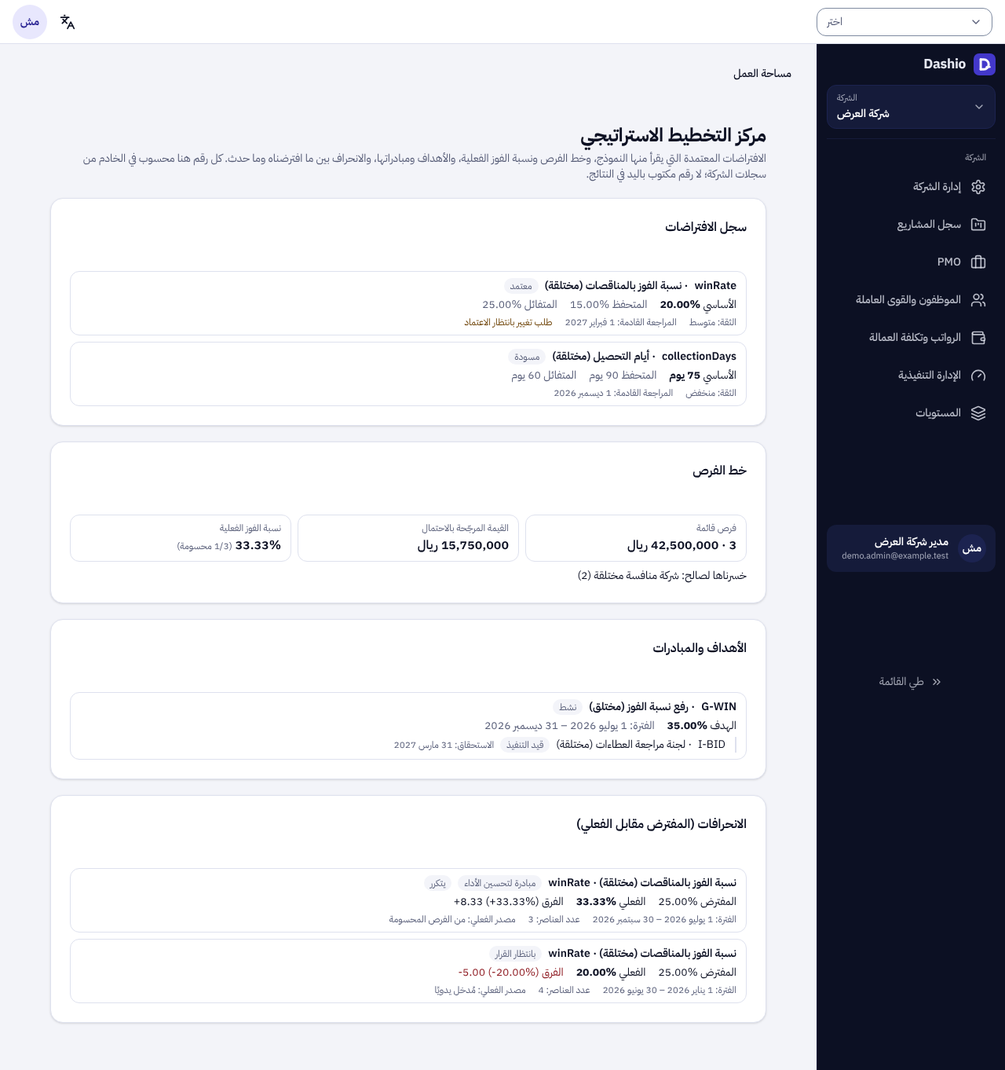
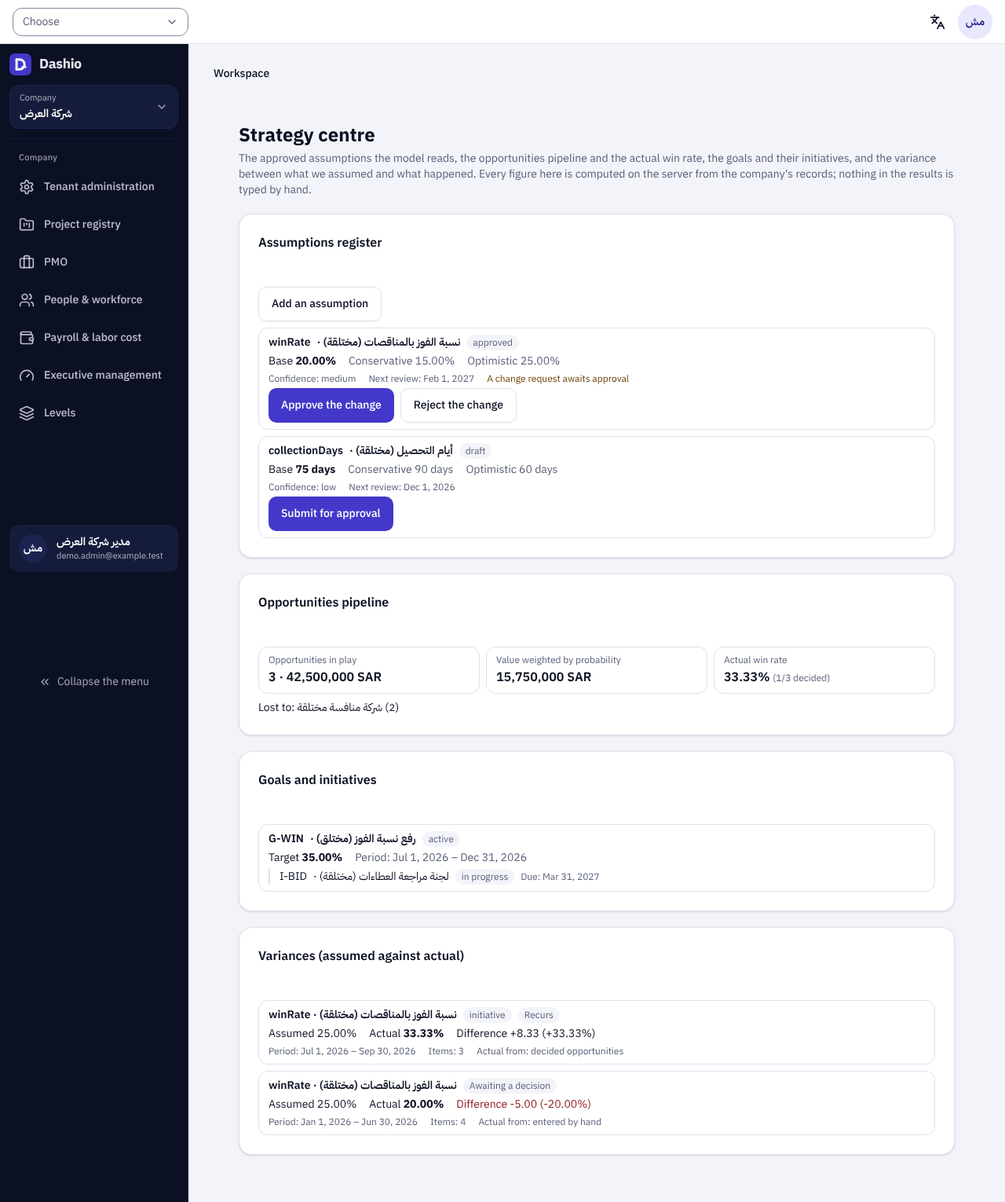
Q-21 (b) batch 2: the assumptions register worked from the screen — add, submit, approve or return, request and decide a change
Buttons follow each assumption's state and the viewer's strategy.manage / strategy.approve; every rule and refusal is the server's.
Also fixes tests/ui/audit.mjs: an English or Urdu run audited the Arabic pages (the account's saved language won over the
browser's). The audit now sets the audited account's language first, and a page in another language is a hard failure.
The batch 1 English and Urdu screenshots, which were Arabic for that reason, are retaken.

Claude-Session: https://claude.ai/code/session_01QXLs4EwbEqiDpkbPPHSQR2

diff --git a/client/src/pages/StrategyAssumptionActions.tsx b/client/src/pages/StrategyAssumptionActions.tsx
@@ -1,0 +1,156 @@
+import React, { useState } from "react";
+import { CheckedForm } from "@/components/CheckedForm";
+import { Select } from "@/components/ds/Select";
+import { Button } from "@/components/ui/button";
+import { Input } from "@/components/ui/input";
+import { Label } from "@/components/ui/label";
+import { Textarea } from "@/components/ui/textarea";
+import { getLocalizedProjectError } from "@/lib/projectErrors";
+import { useCan } from "@/lib/permissions";
+import { pickLanguage, type Language } from "@/lib/language";
+import { trpc } from "@/lib/trpc";
+
+// Q-21 (b), batch 2: the assumptions register is worked from the screen — a new assumption is entered as a draft, submitted, approved or returned,
+// and an approved one changes only through a change request that another person approves. Every rule (who may, separation of duties, the
+// locked approved value) is the server's: the buttons only show what the viewer's permissions allow, and a refusal is the server's own message.
+const TEXT = {
+  ar: {
+    add: "إضافة افتراض", cancel: "إلغاء", save: "حفظ كمسودة", code: "الرمز (حروف لاتينية وأرقام)", name: "الاسم", unit: "الوحدة", sourceType: "نوع المصدر", sourceNote: "المصدر ومرجعه",
+    confidence: "الثقة", reviewFrequency: "تكرار المراجعة", nextReviewAt: "المراجعة القادمة", conservative: "المتحفظ", base: "الأساسي", optimistic: "المتفائل",
+    submit: "إرسال للاعتماد", approve: "اعتماد", return: "إعادة للمُدخِل", returnReason: "سبب الإعادة", requestChange: "طلب تغيير", reason: "سبب التغيير", send: "إرسال الطلب",
+    approveChange: "اعتماد التغيير", rejectChange: "رفض التغيير", saved: "حُفظ الافتراض مسودة.", submitted: "أُرسل الافتراض للاعتماد.", approved: "اعتُمد.", returned: "أُعيد إلى المسودة.",
+    changeRequested: "سُجّل طلب التغيير وينتظر الاعتماد.", changeApproved: "اعتُمد التغيير وسُجّل في سجل التغييرات.", changeRejected: "رُفض التغيير؛ بقيت القيمة المعتمدة.",
+    percent: "نسبة %", sar: "ريال", months: "شهر", days: "يوم", count: "عدد", internal: "داخلي", external: "خارجي", management: "تقدير إداري",
+    high: "مرتفعة", medium: "متوسطة", low: "منخفضة", monthly: "شهري", quarterly: "ربعي", annual: "سنوي", event: "عند حدث",
+  },
+  en: {
+    add: "Add an assumption", cancel: "Cancel", save: "Save as draft", code: "Code (Latin letters and digits)", name: "Name", unit: "Unit", sourceType: "Source type", sourceNote: "Source and reference",
+    confidence: "Confidence", reviewFrequency: "Review every", nextReviewAt: "Next review", conservative: "Conservative", base: "Base", optimistic: "Optimistic",
+    submit: "Submit for approval", approve: "Approve", return: "Return to its author", returnReason: "Why it is returned", requestChange: "Request a change", reason: "Why it changes", send: "Send the request",
+    approveChange: "Approve the change", rejectChange: "Reject the change", saved: "The assumption is saved as a draft.", submitted: "The assumption is submitted for approval.", approved: "Approved.", returned: "Returned to draft.",
+    changeRequested: "The change request is recorded and awaits approval.", changeApproved: "The change is approved and kept in the change log.", changeRejected: "The change is rejected; the approved value stands.",
+    percent: "Percent %", sar: "SAR", months: "Months", days: "Days", count: "Count", internal: "Internal", external: "External", management: "Management estimate",
+    high: "High", medium: "Medium", low: "Low", monthly: "Monthly", quarterly: "Quarterly", annual: "Annual", event: "On an event",
+  },
+  ur: {
+    add: "مفروضہ شامل کریں", cancel: "منسوخ", save: "مسودے کے طور پر محفوظ کریں", code: "کوڈ (لاطینی حروف اور ہندسے)", name: "نام", unit: "اکائی", sourceType: "ماخذ کی قسم", sourceNote: "ماخذ اور حوالہ",
+    confidence: "اعتماد", reviewFrequency: "جائزہ ہر", nextReviewAt: "اگلا جائزہ", conservative: "محتاط", base: "بنیادی", optimistic: "پرامید",
+    submit: "منظوری کے لیے بھیجیں", approve: "منظور کریں", return: "لکھنے والے کو واپس کریں", returnReason: "واپسی کی وجہ", requestChange: "تبدیلی کی درخواست", reason: "تبدیلی کی وجہ", send: "درخواست بھیجیں",
+    approveChange: "تبدیلی منظور کریں", rejectChange: "تبدیلی مسترد کریں", saved: "مفروضہ مسودے کے طور پر محفوظ ہو گیا۔", submitted: "مفروضہ منظوری کے لیے بھیج دیا گیا۔", approved: "منظور ہو گیا۔", returned: "مسودے میں واپس۔",
+    changeRequested: "تبدیلی کی درخواست درج ہو گئی اور منظوری کی منتظر ہے۔", changeApproved: "تبدیلی منظور ہو کر تبدیلیوں کے ریکارڈ میں درج ہو گئی۔", changeRejected: "تبدیلی مسترد؛ منظور شدہ قدر برقرار ہے۔",
+    percent: "فیصد %", sar: "ریال", months: "ماہ", days: "دن", count: "تعداد", internal: "اندرونی", external: "بیرونی", management: "انتظامی تخمینہ",
+    high: "زیادہ", medium: "درمیانہ", low: "کم", monthly: "ماہانہ", quarterly: "سہ ماہی", annual: "سالانہ", event: "کسی واقعے پر",
+  },
+} satisfies Record<Language, Record<string, string>>;
+type Text = (typeof TEXT)["ar"];
+
+const UNITS = ["percent", "sar", "months", "days", "count"] as const;
+const SOURCES = ["internal", "external", "management"] as const;
+const CONFIDENCES = ["high", "medium", "low"] as const;
+const FREQUENCIES = ["monthly", "quarterly", "annual", "event"] as const;
+
+export type AssumptionRow = { id: string; code: string; status: string; pendingChange: unknown | null };
+
+function Field({ id, label, children }: { id: string; label: string; children: React.ReactNode }) {
+  return <div className="grid gap-1"><Label htmlFor={id}>{label}</Label>{children}</div>;
+}
+function Choice<T extends string>({ id, label, value, options, onChange, t }: { id: string; label: string; value: T; options: readonly T[]; onChange: (value: T) => void; t: Text }) {
+  return <Field id={id} label={label}><Select id={id} value={value} onValueChange={next => onChange(next as T)} options={options.map(option => ({ value: option, label: t[option as keyof Text] }))} /></Field>;
+}
+/** Three scenario values, typed as numbers (Western digits); the server keeps them as given. */
+function ScenarioValues({ prefix, values, onChange, t }: { prefix: string; values: Record<"conservative" | "base" | "optimistic", string>; onChange: (values: Record<"conservative" | "base" | "optimistic", string>) => void; t: Text }) {
+  return <div className="grid grid-cols-1 gap-3 sm:grid-cols-3">{(["conservative", "base", "optimistic"] as const).map(key =>
+    <Field key={key} id={`${prefix}-${key}`} label={t[key]}><Input className="min-h-11" id={`${prefix}-${key}`} type="number" step="any" inputMode="decimal" dir="ltr" required value={values[key]} onChange={event => onChange({ ...values, [key]: event.target.value })} /></Field>)}</div>;
+}
+const numbers = (values: Record<"conservative" | "base" | "optimistic", string>) => ({ conservative: Number(values.conservative), base: Number(values.base), optimistic: Number(values.optimistic) });
+
+function Feedback({ error, notice, language }: { error: unknown; notice: string; language: Language }) {
+  if (error) return <p role="alert" data-strategy-error className="text-sm text-danger-soft-foreground">{getLocalizedProjectError(error, language)}</p>;
+  return notice ? <p role="status" className="text-sm text-success-soft-foreground">{notice}</p> : null;
+}
+
+const emptyDraft = () => ({ code: "", name: "", unit: "percent" as (typeof UNITS)[number], sourceType: "internal" as (typeof SOURCES)[number], sourceNote: "", confidence: "medium" as (typeof CONFIDENCES)[number], reviewFrequency: "quarterly" as (typeof FREQUENCIES)[number], nextReviewAt: "", values: { conservative: "", base: "", optimistic: "" } });
+
+/** «Add an assumption» — for strategy.manage. The new assumption is a draft: it enters no figure until it is approved. */
+export function NewAssumption({ tenantId, language }: { tenantId: string; language: Language }) {
+  const t = pickLanguage(language, TEXT);
+  const allowed = useCan("strategy.manage");
+  const utils = trpc.useUtils();
+  const [open, setOpen] = useState(false);
+  const [draft, setDraft] = useState(emptyDraft);
+  const [notice, setNotice] = useState("");
+  const create = trpc.strategy.createAssumption.useMutation({ onSuccess: () => { setDraft(emptyDraft()); setOpen(false); setNotice(t.saved); void utils.strategy.assumptions.invalidate(); } });
+  if (!allowed) return null;
+  if (!open) return <div className="grid gap-2"><Feedback error={null} notice={notice} language={language} /><Button type="button" variant="outline" className="min-h-11 justify-self-start" data-strategy-add onClick={() => { setNotice(""); create.reset(); setOpen(true); }}>{t.add}</Button></div>;
+  const set = <K extends keyof ReturnType<typeof emptyDraft>>(key: K, value: ReturnType<typeof emptyDraft>[K]) => setDraft(current => ({ ...current, [key]: value }));
+  return <CheckedForm data-strategy-new className="grid gap-3 rounded-[var(--radius-md)] border border-border p-3" onSubmit={event => {
+    event.preventDefault();
+    create.mutate({ tenantId, code: draft.code.trim(), name: draft.name.trim(), unit: draft.unit, sourceType: draft.sourceType, sourceNote: draft.sourceNote.trim() || null, confidence: draft.confidence, reviewFrequency: draft.reviewFrequency, nextReviewAt: draft.nextReviewAt || null, values: numbers(draft.values) });
+  }}>
+    <div className="grid grid-cols-1 gap-3 sm:grid-cols-2">
+      <Field id="sa-code" label={t.code}><Input className="min-h-11" id="sa-code" dir="ltr" required minLength={2} maxLength={60} pattern="[A-Za-z0-9_.\-]+" value={draft.code} onChange={event => set("code", event.target.value)} /></Field>
+      <Field id="sa-name" label={t.name}><Input className="min-h-11" id="sa-name" required minLength={2} maxLength={200} value={draft.name} onChange={event => set("name", event.target.value)} /></Field>
+      <Choice id="sa-unit" label={t.unit} value={draft.unit} options={UNITS} onChange={value => set("unit", value)} t={t} />
+      <Choice id="sa-source" label={t.sourceType} value={draft.sourceType} options={SOURCES} onChange={value => set("sourceType", value)} t={t} />
+      <Choice id="sa-confidence" label={t.confidence} value={draft.confidence} options={CONFIDENCES} onChange={value => set("confidence", value)} t={t} />
+      <Choice id="sa-frequency" label={t.reviewFrequency} value={draft.reviewFrequency} options={FREQUENCIES} onChange={value => set("reviewFrequency", value)} t={t} />
+      <Field id="sa-next" label={t.nextReviewAt}><Input className="min-h-11" id="sa-next" type="date" dir="ltr" value={draft.nextReviewAt} onChange={event => set("nextReviewAt", event.target.value)} /></Field>
+      <Field id="sa-note" label={t.sourceNote}><Input className="min-h-11" id="sa-note" maxLength={500} value={draft.sourceNote} onChange={event => set("sourceNote", event.target.value)} /></Field>
+    </div>
+    <ScenarioValues prefix="sa" values={draft.values} onChange={values => set("values", values)} t={t} />
+    <Feedback error={create.error} notice="" language={language} />
+    <div className="flex flex-wrap gap-2"><Button className="min-h-11" type="submit" disabled={create.isPending}>{t.save}</Button><Button className="min-h-11" type="button" variant="ghost" onClick={() => { setOpen(false); create.reset(); }}>{t.cancel}</Button></div>
+  </CheckedForm>;
+}
+
+/**
+ * The actions one assumption allows, by its state and the viewer's permissions:
+ *   draft    → submit (strategy.manage)
+ *   pending  → approve, or return with a reason (strategy.approve; the server refuses the person who submitted it)
+ *   approved → request a change with new values and a reason (strategy.manage), or — when a change waits — approve or reject it (strategy.approve)
+ * A retired assumption has none.
+ */
+export function AssumptionActions({ tenantId, item, language }: { tenantId: string; item: AssumptionRow; language: Language }) {
+  const t = pickLanguage(language, TEXT);
+  const canManage = useCan("strategy.manage");
+  const canApprove = useCan("strategy.approve");
+  const utils = trpc.useUtils();
+  const [notice, setNotice] = useState("");
+  const [form, setForm] = useState<"none" | "return" | "change">("none");
+  const [reason, setReason] = useState("");
+  const [values, setValues] = useState({ conservative: "", base: "", optimistic: "" });
+  // a success clears every earlier refusal on this assumption (each action keeps its own error until reset)
+  const done = (message: string) => () => { for (const action of [submit, decide, request, decideChange]) action.reset(); setNotice(message); setForm("none"); setReason(""); void utils.strategy.assumptions.invalidate(); };
+  const submit = trpc.strategy.submitAssumption.useMutation({ onSuccess: done(t.submitted) });
+  const decide = trpc.strategy.decideAssumption.useMutation();
+  const request = trpc.strategy.requestChange.useMutation({ onSuccess: done(t.changeRequested) });
+  const decideChange = trpc.strategy.decideChange.useMutation();
+  const error = submit.error ?? decide.error ?? request.error ?? decideChange.error;
+  const busy = submit.isPending || decide.isPending || request.isPending || decideChange.isPending;
+  const base = { tenantId, assumptionId: item.id };
+  const buttons: React.ReactNode[] = [];
+  if (item.status === "draft" && canManage) buttons.push(<Button className="min-h-11" key="submit" type="button" disabled={busy} data-strategy-action="submit" onClick={() => submit.mutate(base)}>{t.submit}</Button>);
+  if (item.status === "pending" && canApprove) {
+    buttons.push(<Button className="min-h-11" key="approve" type="button" disabled={busy} data-strategy-action="approve" onClick={() => decide.mutate({ ...base, decision: "approve" }, { onSuccess: done(t.approved) })}>{t.approve}</Button>);
+    buttons.push(<Button className="min-h-11" key="return" type="button" variant="outline" disabled={busy} data-strategy-action="return" onClick={() => setForm("return")}>{t.return}</Button>);
+  }
+  if (item.status === "approved" && item.pendingChange && canApprove) {
+    buttons.push(<Button className="min-h-11" key="approve-change" type="button" disabled={busy} data-strategy-action="approve-change" onClick={() => decideChange.mutate({ ...base, decision: "approve" }, { onSuccess: done(t.changeApproved) })}>{t.approveChange}</Button>);
+    buttons.push(<Button className="min-h-11" key="reject-change" type="button" variant="outline" disabled={busy} data-strategy-action="reject-change" onClick={() => decideChange.mutate({ ...base, decision: "reject" }, { onSuccess: done(t.changeRejected) })}>{t.rejectChange}</Button>);
+  }
+  if (item.status === "approved" && !item.pendingChange && canManage) buttons.push(<Button className="min-h-11" key="change" type="button" variant="outline" disabled={busy} data-strategy-action="request-change" onClick={() => setForm("change")}>{t.requestChange}</Button>);
+  if (!buttons.length && !notice && !error) return null;
+  return <div className="grid gap-2" data-strategy-actions={item.code}>
+    {form === "none" && buttons.length ? <div className="flex flex-wrap gap-2">{buttons}</div> : null}
+    {form === "return" ? <CheckedForm className="grid gap-2" onSubmit={event => { event.preventDefault(); decide.mutate({ ...base, decision: "return", reason: reason.trim() }, { onSuccess: done(t.returned) }); }}>
+      <Field id={`sr-${item.id}`} label={t.returnReason}><Textarea id={`sr-${item.id}`} required minLength={2} maxLength={500} value={reason} onChange={event => setReason(event.target.value)} /></Field>
+      <div className="flex flex-wrap gap-2"><Button className="min-h-11" type="submit" disabled={busy}>{t.return}</Button><Button className="min-h-11" type="button" variant="ghost" onClick={() => setForm("none")}>{t.cancel}</Button></div>
+    </CheckedForm> : null}
+    {form === "change" ? <CheckedForm className="grid gap-2" data-strategy-change-form onSubmit={event => { event.preventDefault(); request.mutate({ ...base, values: numbers(values), reason: reason.trim() }); }}>
+      <ScenarioValues prefix={`sc-${item.id}`} values={values} onChange={setValues} t={t} />
+      <Field id={`sc-reason-${item.id}`} label={t.reason}><Textarea id={`sc-reason-${item.id}`} required minLength={2} maxLength={500} value={reason} onChange={event => setReason(event.target.value)} /></Field>
+      <div className="flex flex-wrap gap-2"><Button className="min-h-11" type="submit" disabled={busy}>{t.send}</Button><Button className="min-h-11" type="button" variant="ghost" onClick={() => setForm("none")}>{t.cancel}</Button></div>
+    </CheckedForm> : null}
+    <Feedback error={error} notice={notice} language={language} />
+  </div>;
+}

diff --git a/client/src/pages/StrategyAssumptionActions.test.tsx b/client/src/pages/StrategyAssumptionActions.test.tsx
@@ -1,0 +1,109 @@
+/** @vitest-environment jsdom */
+import React from "react";
+import { cleanup, fireEvent, render, screen } from "@testing-library/react";
+import { beforeEach, describe, expect, it, vi } from "vitest";
+
+// Q-21 (b), batch 2: the assumptions register worked from the screen. The buttons follow the state and the viewer's permissions; what is sent
+// is what was typed (numbers as numbers); a refusal is the server's own message. Synthetic data only.
+const T = "11111111-1111-4111-8111-111111111111";
+const A = "aaaaaaaa-aaaa-4aaa-8aaa-aaaaaaaaaaaa";
+type Mutation = { mutate: ReturnType<typeof vi.fn>; reset: ReturnType<typeof vi.fn>; error: unknown; isPending: boolean };
+const h = vi.hoisted(() => {
+  const state = { can: new Set<string>(), mutations: {} as Record<string, Mutation>, mutation: (name: string) => () => (state.mutations[name] ??= { mutate: vi.fn(), reset: vi.fn(), error: null, isPending: false }) };
+  return state;
+});
+vi.mock("@/contexts/LanguageContext", () => ({ useLanguage: () => ({ isArabic: false, language: "en", isRtl: false }) }));
+vi.mock("@/lib/permissions", () => ({ useCan: (permission: string) => h.can.has(permission) }));
+vi.mock("@/lib/projectErrors", () => ({ getLocalizedProjectError: (error: { message: string }) => `server: ${error.message}` }));
+vi.mock("@/components/ds/Select", () => ({ Select: ({ id, value, options, onValueChange }: { id: string; value: string; options: { value: string; label: string }[]; onValueChange: (value: string) => void }) =>
+  <select id={id} value={value} onChange={event => onValueChange(event.target.value)}>{options.map(option => <option key={option.value} value={option.value}>{option.label}</option>)}</select> }));
+vi.mock("@/lib/trpc", () => ({ trpc: {
+  useUtils: () => ({ strategy: { assumptions: { invalidate: vi.fn() } } }),
+  strategy: {
+    createAssumption: { useMutation: h.mutation("createAssumption") }, submitAssumption: { useMutation: h.mutation("submitAssumption") },
+    decideAssumption: { useMutation: h.mutation("decideAssumption") }, requestChange: { useMutation: h.mutation("requestChange") }, decideChange: { useMutation: h.mutation("decideChange") },
+  },
+} }));
+
+import { AssumptionActions, NewAssumption } from "./StrategyAssumptionActions";
+
+const row = (status: string, pendingChange: unknown = null) => ({ id: A, code: "winRate", status, pendingChange });
+const action = (container: HTMLElement, name: string) => container.querySelector(`[data-strategy-action="${name}"]`) as HTMLButtonElement | null;
+
+describe("Q-21 (b), batch 2: working the assumptions register", () => {
+  beforeEach(() => { cleanup(); h.can = new Set(["strategy.manage", "strategy.approve"]); h.mutations = {}; });
+
+  it("POSITIVE: each state offers its own next step and sends exactly the assumption's ids; a new assumption is sent with its three values as numbers", () => {
+    const draft = render(<AssumptionActions tenantId={T} item={row("draft")} language="en" />);
+    expect(action(draft.container, "approve")).toBeNull();
+    fireEvent.click(action(draft.container, "submit")!);
+    expect(h.mutations.submitAssumption.mutate).toHaveBeenCalledWith({ tenantId: T, assumptionId: A });
+    cleanup();
+
+    const pending = render(<AssumptionActions tenantId={T} item={row("pending")} language="en" />);
+    fireEvent.click(action(pending.container, "approve")!);
+    expect(h.mutations.decideAssumption.mutate.mock.calls[0][0]).toEqual({ tenantId: T, assumptionId: A, decision: "approve" });
+    fireEvent.click(action(pending.container, "return")!);
+    fireEvent.change(screen.getByLabelText("Why it is returned"), { target: { value: "The source is missing" } });
+    fireEvent.submit(screen.getByLabelText("Why it is returned").closest("form")!);
+    expect(h.mutations.decideAssumption.mutate.mock.calls[1][0]).toEqual({ tenantId: T, assumptionId: A, decision: "return", reason: "The source is missing" });
+    cleanup();
+
+    const approved = render(<AssumptionActions tenantId={T} item={row("approved")} language="en" />);
+    expect(action(approved.container, "approve-change")).toBeNull();
+    fireEvent.click(action(approved.container, "request-change")!);
+    const form = approved.container.querySelector("[data-strategy-change-form]") as HTMLFormElement;
+    fireEvent.change(form.querySelector(`[id="sc-${A}-conservative"]`)!, { target: { value: "10" } });
+    fireEvent.change(form.querySelector(`[id="sc-${A}-base"]`)!, { target: { value: "15.5" } });
+    fireEvent.change(form.querySelector(`[id="sc-${A}-optimistic"]`)!, { target: { value: "20" } });
+    fireEvent.change(screen.getByLabelText("Why it changes"), { target: { value: "Last two quarters" } });
+    fireEvent.submit(form);
+    expect(h.mutations.requestChange.mutate).toHaveBeenCalledWith({ tenantId: T, assumptionId: A, values: { conservative: 10, base: 15.5, optimistic: 20 }, reason: "Last two quarters" });
+    cleanup();
+
+    const waiting = render(<AssumptionActions tenantId={T} item={row("approved", { values: {} })} language="en" />);
+    expect(action(waiting.container, "request-change")).toBeNull();
+    fireEvent.click(action(waiting.container, "reject-change")!);
+    expect(h.mutations.decideChange.mutate.mock.calls[0][0]).toEqual({ tenantId: T, assumptionId: A, decision: "reject" });
+    cleanup();
+
+    const add = render(<NewAssumption tenantId={T} language="en" />);
+    fireEvent.click(add.container.querySelector("[data-strategy-add]")!);
+    fireEvent.change(screen.getByLabelText("Code (Latin letters and digits)"), { target: { value: "avgValue" } });
+    fireEvent.change(screen.getByLabelText("Name"), { target: { value: "Synthetic average tender value" } });
+    fireEvent.change(screen.getByLabelText("Unit"), { target: { value: "sar" } });
+    fireEvent.change(add.container.querySelector("#sa-conservative")!, { target: { value: "8000000" } });
+    fireEvent.change(add.container.querySelector("#sa-base")!, { target: { value: "10000000" } });
+    fireEvent.change(add.container.querySelector("#sa-optimistic")!, { target: { value: "12000000" } });
+    fireEvent.submit(add.container.querySelector("[data-strategy-new]")!);
+    expect(h.mutations.createAssumption.mutate).toHaveBeenCalledWith({ tenantId: T, code: "avgValue", name: "Synthetic average tender value", unit: "sar", sourceType: "internal", sourceNote: null, confidence: "medium", reviewFrequency: "quarterly", nextReviewAt: null, values: { conservative: 8_000_000, base: 10_000_000, optimistic: 12_000_000 } });
+  });
+
+  it("NEGATIVE: no permission, no button and no form; the approver-only steps are hidden from a manager; a retired assumption has none; a refusal shows the server's message", () => {
+    h.can = new Set();
+    for (const status of ["draft", "pending", "approved"]) {
+      const { container } = render(<AssumptionActions tenantId={T} item={row(status, status === "approved" ? { values: {} } : null)} language="en" />);
+      expect(container.querySelector("button")).toBeNull();
+      cleanup();
+    }
+    expect(render(<NewAssumption tenantId={T} language="en" />).container.querySelector("[data-strategy-add]")).toBeNull();
+    cleanup();
+
+    h.can = new Set(["strategy.manage"]);
+    const pending = render(<AssumptionActions tenantId={T} item={row("pending")} language="en" />);
+    expect(action(pending.container, "approve")).toBeNull();
+    expect(action(pending.container, "return")).toBeNull();
+    cleanup();
+    const waiting = render(<AssumptionActions tenantId={T} item={row("approved", { values: {} })} language="en" />);
+    expect(action(waiting.container, "approve-change")).toBeNull();
+    cleanup();
+
+    h.can = new Set(["strategy.manage", "strategy.approve"]);
+    expect(render(<AssumptionActions tenantId={T} item={row("retired")} language="en" />).container.querySelector("button")).toBeNull();
+    cleanup();
+
+    h.mutation("decideAssumption")().error = { message: "PROJECT_OS_STRATEGY_SELF_APPROVAL" };
+    render(<AssumptionActions tenantId={T} item={row("pending")} language="en" />);
+    expect(screen.getByRole("alert").textContent).toBe("server: PROJECT_OS_STRATEGY_SELF_APPROVAL");
+  });
+});

diff --git a/client/src/pages/Strategy.tsx b/client/src/pages/Strategy.tsx
@@ -8,6 +8,7 @@ import { useLanguage } from "@/contexts/LanguageContext";
 import { enumLabel } from "@/lib/labels";
 import { pickLanguage, type Language } from "@/lib/language";
 import { trpc } from "@/lib/trpc";
+import { AssumptionActions, NewAssumption } from "./StrategyAssumptionActions";
 
 const TEXT = {
   ar: {
@@ -55,6 +56,7 @@ function Assumptions({ tenantId, t, language }: { tenantId: string; t: Text; lan
     <CardHeader className="pb-3"><CardTitle className="text-base">{t.assumptions}</CardTitle></CardHeader>
     <CardContent className="grid gap-2">
       <SourceNotice query={query} isArabic={language === "ar"} title={t.assumptions} />
+      <NewAssumption tenantId={tenantId} language={language} />
       {query.data && !query.data.length ? <Empty name="assumptions">{t.noAssumptions}</Empty> : null}
       {query.data?.map(item => <div key={item.id} data-strategy-assumption={item.code} className="grid gap-1 rounded-[var(--radius-md)] border border-border px-3 py-2">
         <div className="flex flex-wrap items-center gap-2 text-sm font-semibold"><bdi>{item.code}</bdi><span>· {item.name}</span><Chip>{enumLabel(item.status, language)}</Chip></div>
@@ -68,6 +70,7 @@ function Assumptions({ tenantId, t, language }: { tenantId: string; t: Text; lan
           {item.nextReviewAt ? <span>{t.nextReview}: <bdi>{formatDate(item.nextReviewAt, language)}</bdi></span> : null}
           {item.pendingChange ? <span className="text-warning-soft-foreground" data-strategy-pending>{t.pendingChange}</span> : null}
         </div>
+        <AssumptionActions tenantId={tenantId} item={item} language={language} />
       </div>)}
     </CardContent>
   </Card>;
@@ -151,7 +154,7 @@ function Variances({ tenantId, t, language }: { tenantId: string; t: Text; langu
 }
 
 /**
- * Q-21 (b), batch 1: «مركز التخطيط الاستراتيجي» — read-only, company-wide. Every section reads its own strategy.* procedure (strategy.read at company
+ * Q-21 (b), batch 1: «مركز التخطيط الاستراتيجي» — company-wide; batch 2 adds working the assumptions register (StrategyAssumptionActions.tsx). Every section reads its own strategy.* procedure (strategy.read at company
  * scope on the server; a viewer without it gets the server's refusal in each section's notice, never a figure). Nothing is computed here: the win rate,
  * the weighted value and each variance's difference come from the server as they are.
  */

diff --git a/client/src/pages/Strategy.test.tsx b/client/src/pages/Strategy.test.tsx
@@ -16,6 +16,9 @@ vi.mock("@/lib/trpc", () => ({ trpc: { strategy: {
   initiatives: { useQuery: () => h.initiatives }, variances: { useQuery: () => h.variances },
 } } }));
 
+// the register's actions are tested on their own (StrategyAssumptionActions.test.tsx)
+vi.mock("./StrategyAssumptionActions", () => ({ NewAssumption: () => null, AssumptionActions: () => null }));
+
 import Strategy from "./Strategy";
 
 const assumption = { id: A, code: "winRate", name: "Synthetic win rate", unit: "percent", status: "approved", confidence: "medium", nextReviewAt: "2027-02-01", values: { conservative: 15, base: 20, optimistic: 25 }, pendingChange: { values: { conservative: 10, base: 15, optimistic: 20 }, reason: "x", requestedByUserId: 1 } };

diff --git a/docs/STATE.md b/docs/STATE.md
@@ -2022,6 +2022,17 @@
 | المساران الشقيقان (القاعدة 18، مراجعة المبرمج ج على #496): المنافس بالاسم (إنشاء وتعديل، الفهرس `strategy_competitors_tenant_name_unique`) والافتراض بالرمز (إنشاء، `strategy_assumptions_tenant_code_unique`) كانا يُرجعان للحفظ الثاني نص الاستعلام الخام (مسبار على `9852c2f`)؛ صارا يُرجعان `PROJECT_OS_STRATEGY_COMPETITOR_EXISTS` و`PROJECT_OS_STRATEGY_ASSUMPTION_CODE_EXISTS` بـ`violates()` نفسه. لا تكرار كان يُحفظ قبل الإصلاح (الفهرس يمنعه)؛ العيب في الرسالة وحدها | `PROVEN` | `strategyCompetitors.database.test.ts` › «two saves of the same name at the same moment» (إنشاءان متزامنان، وتسمية منافسَين مختلفين بالاسم نفسه معًا) و`strategyAssumptions.database.test.ts` › «two drafts with the same code at the same moment»: بلا الإصلاح يسقط الاثنان (2 فشل / 15)، ومعه 22/22 مع `strategyGoals` (2026-11-20، المبرمج ج) |
 | فحوص المسارين الشقيقين | `PROVEN` | 2026-11-20 على `aa763c0` + الإصلاح: `pnpm check` ناجح؛ `pnpm build` ناجح؛ `pnpm test` 4422/0؛ `coverage:trpc` ناجح (لا استثناء قديم)؛ `test:db` 972/0 (970 قبله + الاختباران)؛ الرحلات الثلاث 42/0؛ `check:secrets` نظيف |
 
+### Q-21 (ب) الدفعة 2: العمل على سجل الافتراضات من الشاشة (2026-11-20، المبرمج ب، واجهة فقط، بأمر المستشار I3)
+
+| البند | الحالة | الدليل |
+|---|---|---|
+| `client/src/pages/StrategyAssumptionActions.tsx` في بطاقة «سجل الافتراضات»: «إضافة افتراض» (`strategy.manage`) — الرمز والاسم والوحدة ونوع المصدر والثقة وتكرار المراجعة والمراجعة القادمة والمصدر وقيم السيناريوهات الثلاثة، يُحفظ مسودة؛ ولكل افتراض خطوته التالية بحسب حالته وصلاحية الناظر: مسودة ← إرسال للاعتماد (`manage`)؛ بانتظار الاعتماد ← اعتماد أو إعادة بسبب (`strategy.approve`)؛ معتمد ← طلب تغيير بقيم جديدة وسبب (`manage`)، وإن انتظر تغيير ← اعتماده أو رفضه (`approve`)؛ المتوقف بلا خطوة. كل قاعدة (فصل المهام، قفل المعتمد) قاعدة الخادم، والرفض رسالته المترجمة | `PROVEN` | `client/src/pages/StrategyAssumptionActions.test.tsx` 2/0: موجب (كل حالة ترسل معرّفي الافتراض فقط، والقيم أرقامًا كما كُتبت: 15.5 و8,000,000) وسالب (بلا صلاحية لا زر ولا نموذج؛ المدير بلا `approve` لا يرى الاعتماد ولا اعتماد التغيير؛ المتوقف بلا زر؛ رفض الخادم `PROJECT_OS_STRATEGY_SELF_APPROVAL` يظهر رسالته) |
+| الأزرار والحقول ≥44px على الجوال، والقوائم من `ds/Select` | `SOURCE_VERIFIED` | قواعد التصميم 0 مخالفات |
+| اللقطات (ع 390/1280، En 1280، أردو 390) والنموذج مفتوح وثلاث حالات (بانتظار الاعتماد، معتمد بطلب تغيير، مسودة): لا تمرير أفقي، أرقام غربية، كل صفحة بلغتها (`lang` = المطلوبة)، لا هدف أقل من 44px على الجوال (القوائم 40px على سطح المكتب كما في `ds/Select`) | `PROVEN` | `docs/screenshots/q-21-strategy/q21b2-strategy-*.png` |
+| `tests/ui/audit.mjs` بثلاث لغات بعد إصلاحه (أدناه)، 72 مسارًا × 2 عرض: hard=0 في كلٍّ، والصفحات 144/144 بلغة التشغيل (ar/en/ur) | `PROVEN` | 2026-11-20، main 1f6d4fc + هذا الفرع |
+| الفحوص | `PROVEN` | 2026-11-20: `pnpm check` ناجح؛ `pnpm build` ناجح؛ `pnpm test` 4432/0؛ `coverage:trpc` ناجح؛ `test:db` 975/0؛ الرحلات الثلاث 42/0 |
+| **عيب في أداة التدقيق، أُصلح هنا:** `AUDIT_LANGUAGE=en` أو `ur` كان يدقّق الصفحات العربية بصمت — لغة الحساب المحفوظة (ar) تغلب لغة المتصفح عند الدخول؛ تشغيل en وur في 20-11 قبل الإصلاح: 144/144 صفحة `lang=ar` ومع ذلك hard=0. الآن يضبط التدقيق لغة الحساب المدقَّق (`languagePreference.set`) قبل البدء ويتوقف إن رُفض، وصفحة بلغة غير المدقَّقة فشل صلب `wrong-language` | `PROVEN` | سالب: تقرير التشغيل السابق (كل الصفحات ar في تشغيل en) كان سيُسقطه الفحص الجديد؛ موجب: التشغيل بعد الإصلاح 144/144 بلغته وhard=0. **أثره على أدلة سابقة:** أي دليل «تدقيق/لقطات بالإنجليزية أو الأردية» أُخذ بحساب لغته المحفوظة عربية قد يكون عربيًا في الحقيقة — منه لقطات #501 en/ur (أُعيدت أدناه) |
+
 ### Q-21 (ب) الدفعة 1: صفحة «مركز التخطيط الاستراتيجي» للقراءة (2026-11-20، المبرمج ب، واجهة فقط، بأمر المستشار I3 18:50)
 
 | البند | الحالة | الدليل |
@@ -2030,8 +2041,8 @@
 | السالب: لا نسبة فوز حين لا فرص محسومة (كلمات لا 0%)، السجلات الفارغة تقول ذلك، والقسم المرفوض من الخادم يعرض الرفض ولا رقمًا | `PROVEN` | الاختبار نفسه |
 | الرابط في قائمة المستخدم لمن يملك `strategy.read` فقط (`useCan`)، والخادم يرفض غيره في كل قسم | `SOURCE_VERIFIED` | `EnterpriseNavigation.tsx` |
 | الإدخال والاعتماد من الشاشة (الافتراضات، الفرص، الأهداف، الانحرافات وقراراتها) | `OPEN` | الدفعة 2 |
-| اللقطات (ع 390/1280، En 1280، أردو 390): لا تمرير أفقي، لا هدف لمس أقل من 44px، أرقام غربية، والوحدة بعد الرقم في اتجاه السطر («75 يوم») | `PROVEN` | `docs/screenshots/q-21-strategy/` |
-| `tests/ui/audit.mjs` بثلاث لغات (72 مسارًا، منها `/strategy/:tenantId`): hard=0 | `PROVEN` | 2026-11-20 |
+| اللقطات (ع 390/1280، En 1280، أردو 390): لا تمرير أفقي، لا هدف لمس أقل من 44px، أرقام غربية، والوحدة بعد الرقم في اتجاه السطر («75 يوم») | `PROVEN` | `docs/screenshots/q-21-strategy/q21b-strategy-*.png` — **أُعيدت 2026-11-20** بعد إصلاح أداة التدقيق (الدفعة 2): لقطتا En وأردو في #501 كانتا عربيتين (لغة الحساب المحفوظة)؛ الآن كل صفحة بلغتها |
+| `tests/ui/audit.mjs` بثلاث لغات (72 مسارًا، منها `/strategy/:tenantId`): hard=0 | `PROVEN` | تشغيلا en وur الأوّلان دقّقا العربية (العيب أعلاه)؛ أُعيدا بعد الإصلاح في الدفعة 2: hard=0 والصفحات بلغتها |
 | الفحوص | `PROVEN` | 2026-11-20 (بعد دمج main مع #404): `pnpm check` ناجح؛ `pnpm build` ناجح؛ `pnpm test` 4429/0 (أسقط تشغيل أول فحصي الترجمات والاستعلامات الفاشلة فعولجا)؛ `test:db` 974/0؛ الرحلات الثلاث 42/0 |
 
 ### Q-21 (أ) الدفعة 6 (الوحدة 5): الأهداف والمبادرات والانحرافات (2026-11-20، المبرمج ب، ترحيلة 0051، فوق الدفعة 4 #408)
